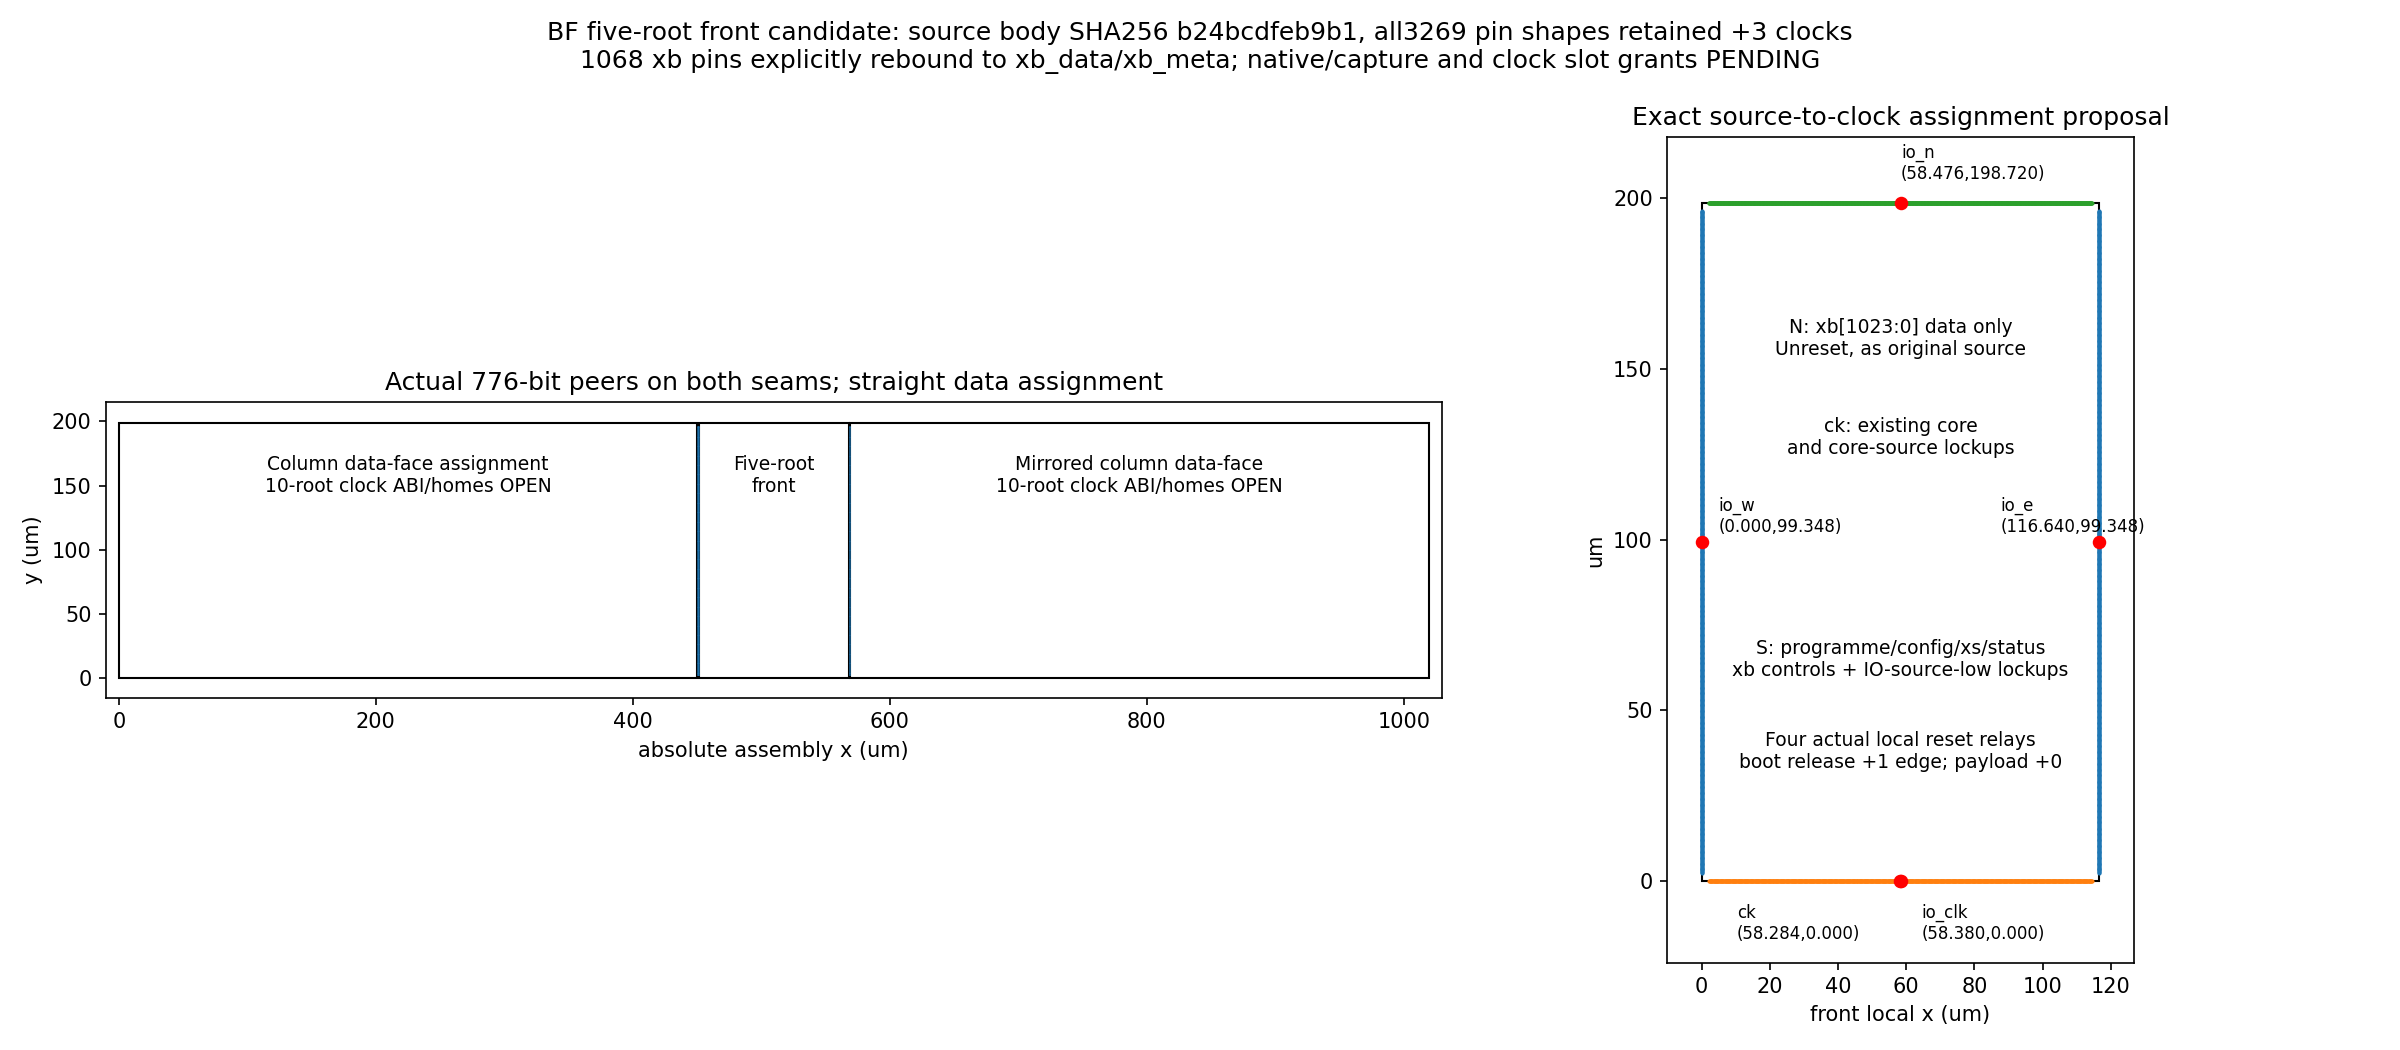
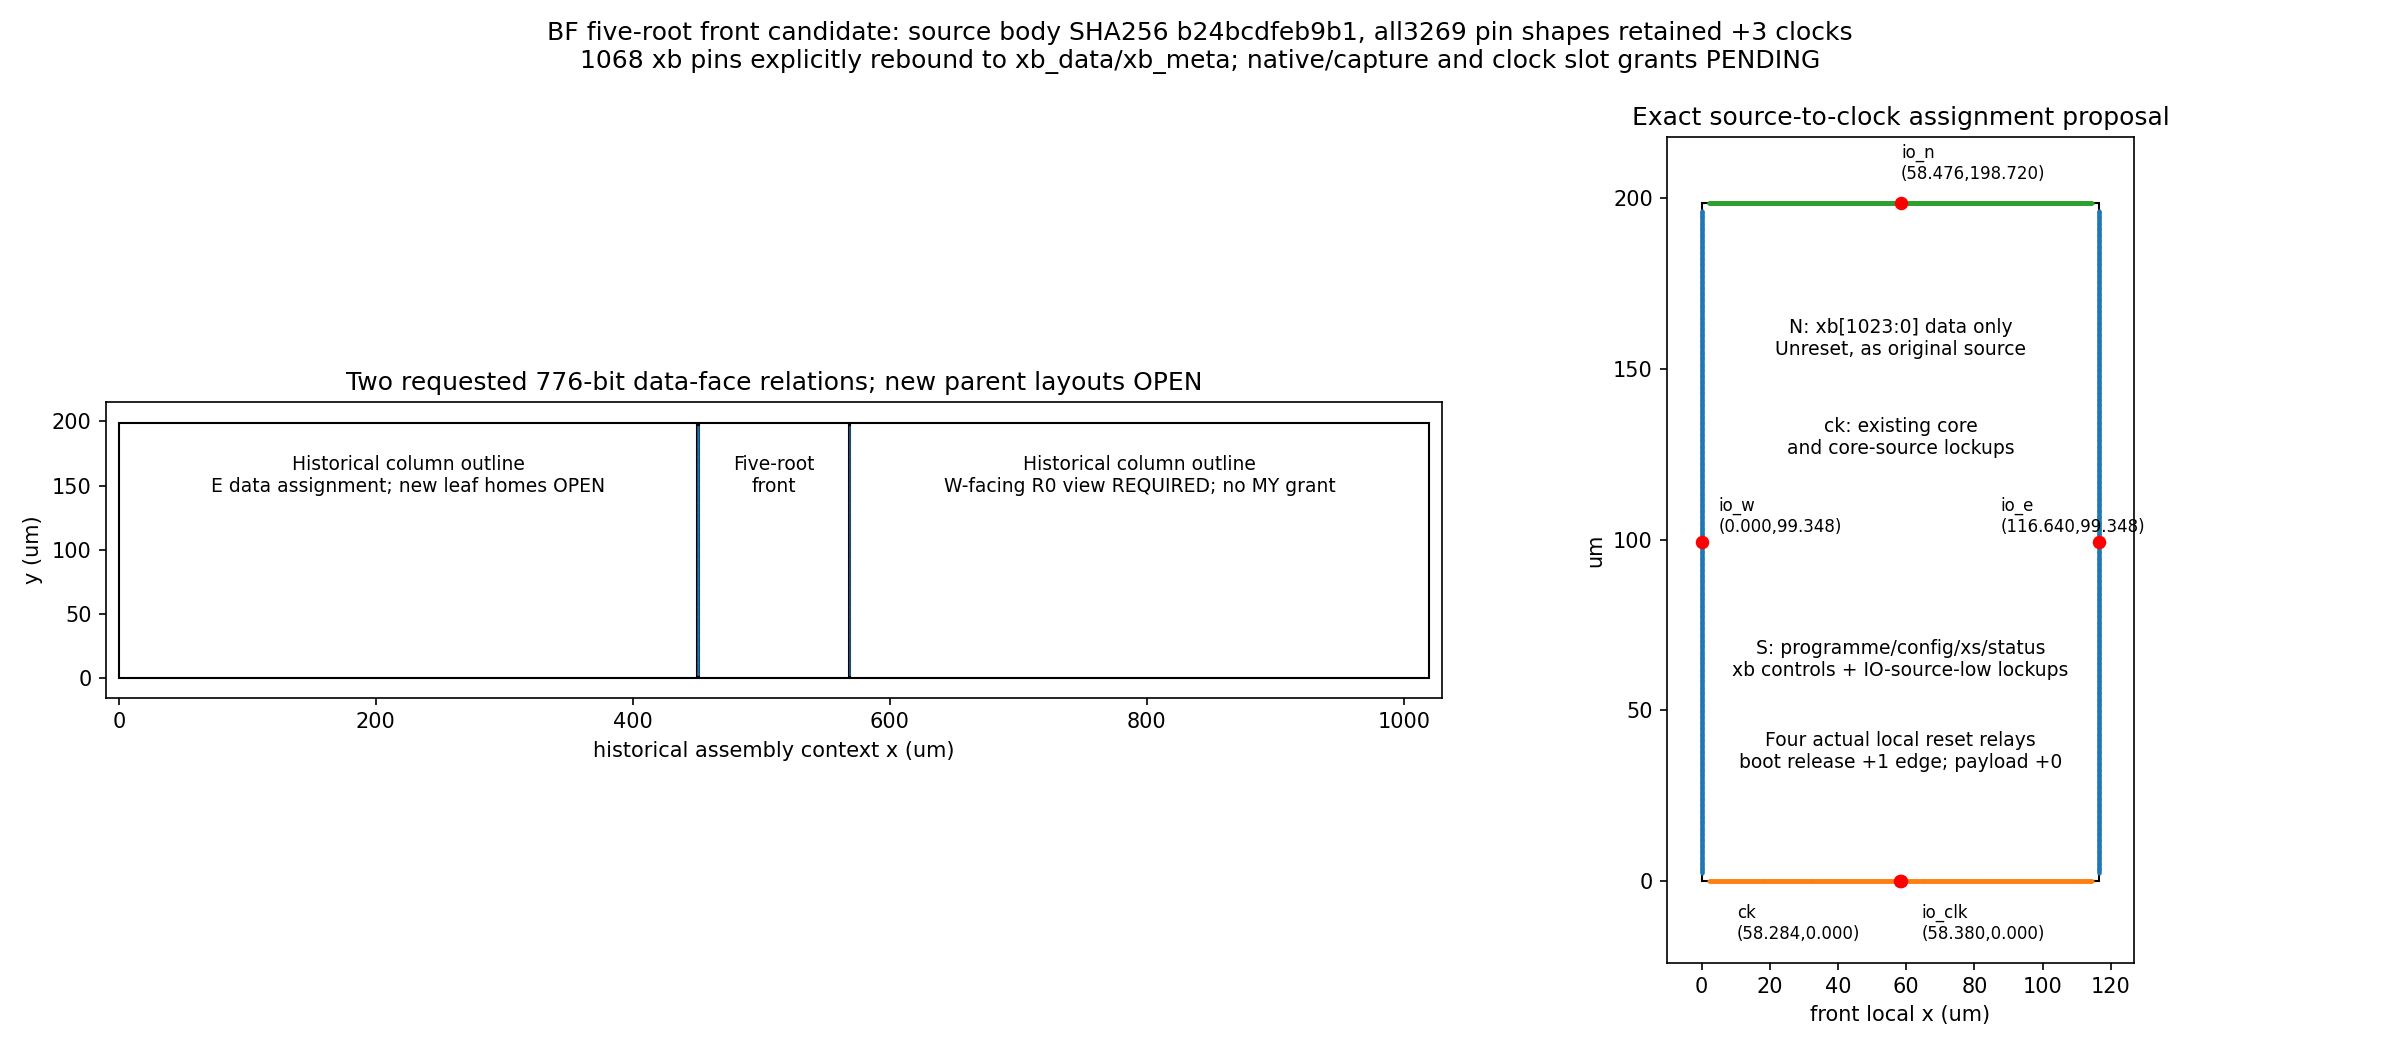
Mark connected column context historical and require explicit R0 data faces

diff --git a/tools/s81/bf_front_roots_pinplan.py b/tools/s81/bf_front_roots_pinplan.py
@@ -52,7 +52,7 @@ def main():
     from matplotlib.collections import LineCollection
     fig,axes=plt.subplots(1,2,figsize=(16,7),gridspec_kw={'width_ratios':[1.4,1]})
     ax=axes[0];cw=450.144;gap=1.188;fx=cw+gap;rx=fx+116.64+gap
-    for x,w,label in [(0,cw,'Column data-face assignment\n10-root clock ABI/homes OPEN'),(fx,116.64,'Five-root\nfront'),(rx,cw,'Mirrored column data-face\n10-root clock ABI/homes OPEN')]:
+    for x,w,label in [(0,cw,'Historical column outline\nE data assignment; new leaf homes OPEN'),(fx,116.64,'Five-root\nfront'),(rx,cw,'Historical column outline\nW-facing R0 view REQUIRED; no MY grant')]:
         ax.add_patch(Rectangle((x,0),w,198.72,fill=False));ax.text(x+w/2,145,label,ha='center',fontsize=9)
     seam=[]
     for n,p in pins.items():
@@ -60,7 +60,7 @@ def main():
         if n.startswith('c1['):seam.append([(fx+116.64,p['y']),(rx,p['y'])])
     assert len(seam)==1552
     ax.add_collection(LineCollection(seam,colors='tab:blue',linewidths=.3))
-    ax.set(xlim=(-10,rx+cw+10),ylim=(-15,215),xlabel='absolute assembly x (um)',ylabel='y (um)',title='Actual 776-bit peers on both seams; straight data assignment')
+    ax.set(xlim=(-10,rx+cw+10),ylim=(-15,215),xlabel='historical assembly context x (um)',ylabel='y (um)',title='Two requested 776-bit data-face relations; new parent layouts OPEN')
     ax.set_aspect('equal')
     ax=axes[1];ax.add_patch(Rectangle((0,0),116.64,198.72,fill=False))
     clocks=['ck','io_clk','io_n','io_w','io_e']
